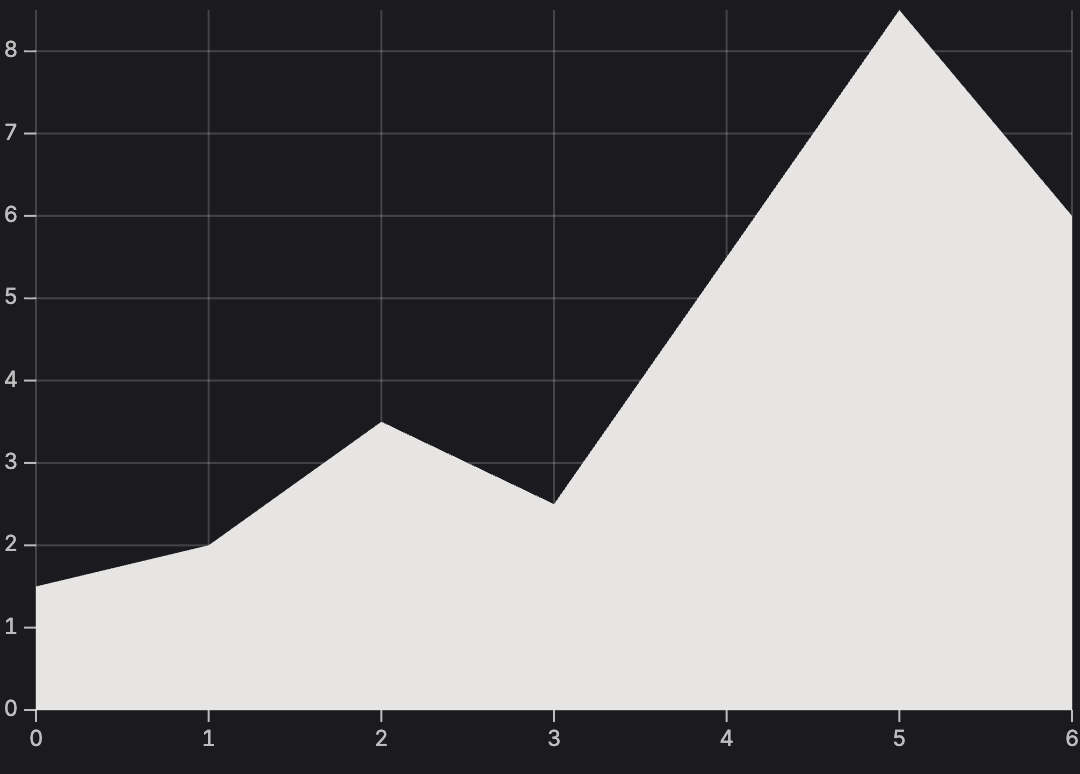
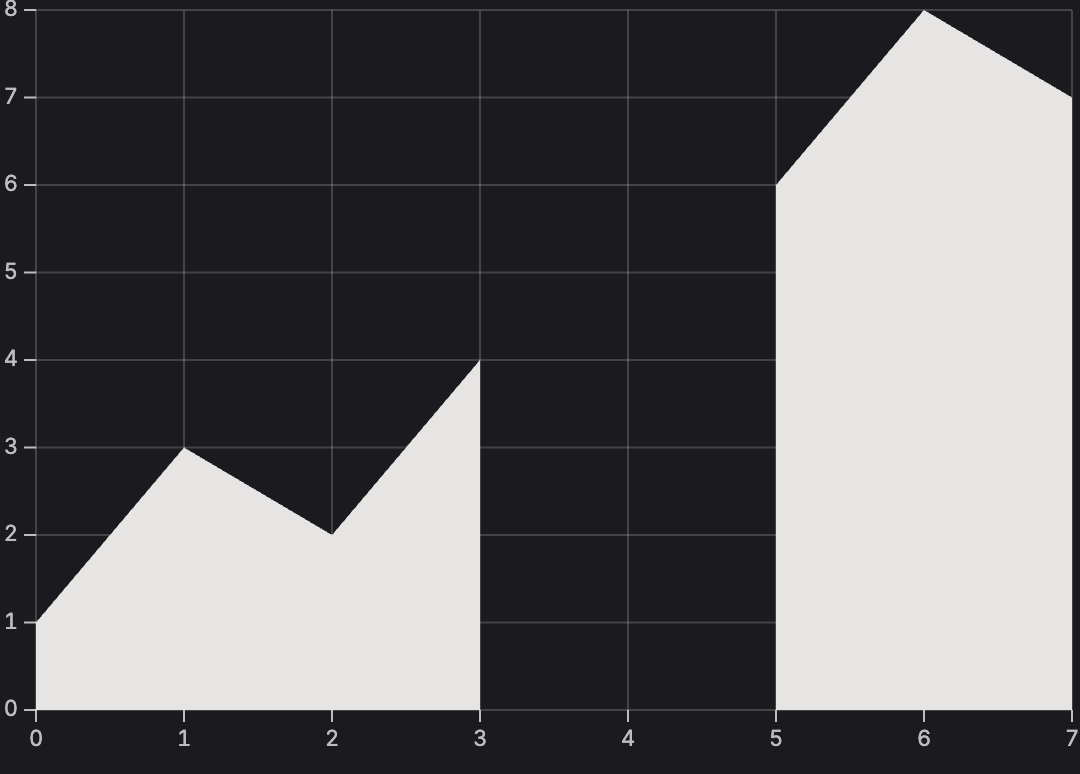
fix: don't lose missing values in stacking

diff --git a/src/lib/transforms/stack.test.ts b/src/lib/transforms/stack.test.ts
@@ -212,7 +212,7 @@ describe('stackX transform', () => {
     });
 
     it('stacks recordized array', () => {
-        const data = [10, 20, 30, 40];
+        const data = [10, 20, 30, undefined, 40];
         const { data: stackedData, ...channels } = stackX(recordizeX({ data, x1: 0, x2: 0 }));
         const { y, x1, x2 } = channels;
         const result = stackedData.map((d) => ({
@@ -224,7 +224,8 @@ describe('stackX transform', () => {
             { y: 0, x1: 0, x2: 10 },
             { y: 1, x1: 0, x2: 20 },
             { y: 2, x1: 0, x2: 30 },
-            { y: 3, x1: 0, x2: 40 }
+            { y: 3, x1: 0, x2: NaN },
+            { y: 4, x1: 0, x2: 40 }
         ]);
     });
 });

diff --git a/src/lib/helpers/resolve.ts b/src/lib/helpers/resolve.ts
@@ -30,7 +30,7 @@ export function resolveProp<K, T>(
         // so we're passing the original value to accessor functions instead of our wrapped record
         return datum == null
             ? accessor()
-            : accessor(datum[RAW_VALUE] != null ? datum[RAW_VALUE] : datum, datum[INDEX]);
+            : accessor(datum.hasOwnProperty(RAW_VALUE) ? datum[RAW_VALUE] : datum, datum[INDEX]);
     } else if (
         (typeof accessor === 'string' || typeof accessor === 'symbol') &&
         datum &&

diff --git a/src/lib/transforms/stack.ts b/src/lib/transforms/stack.ts
@@ -179,7 +179,7 @@ function stackXY<T>(
                 )
                 .keys(keys)
                 .value((d, key, i, data) => {
-                    return d[key]?.v;
+                    return d[key]?.v == null ? undefined : d[key]?.v;
                 })(stackData);
 
             // and combine it all back into a flat array

diff --git a/src/routes/examples/area/from-numbers.svelte b/src/routes/examples/area/from-numbers.svelte
@@ -9,5 +9,5 @@
 </script>
 
 <Plot grid>
-    <AreaY data={[1.5, 2, 3.5, 2.5, 5.5, 8.5, 6]} />
+    <AreaY data={[1, 3, 2, 4, undefined, 6, 8, 7]} />
 </Plot>

diff --git a/src/routes/marks/area/+page.md b/src/routes/marks/area/+page.md
@@ -91,7 +91,10 @@ In order to interpolate across undefined values you need to filter them, e.g. us
 
 <Plot grid height={255}>
     <AreaY
-        filter={(d) => d !== undefined}
+        filter={(d) => {
+            console.log(d);
+            return d !== undefined;
+        }}
         canvas={$useCanvas}
         data={[
             1.5,
